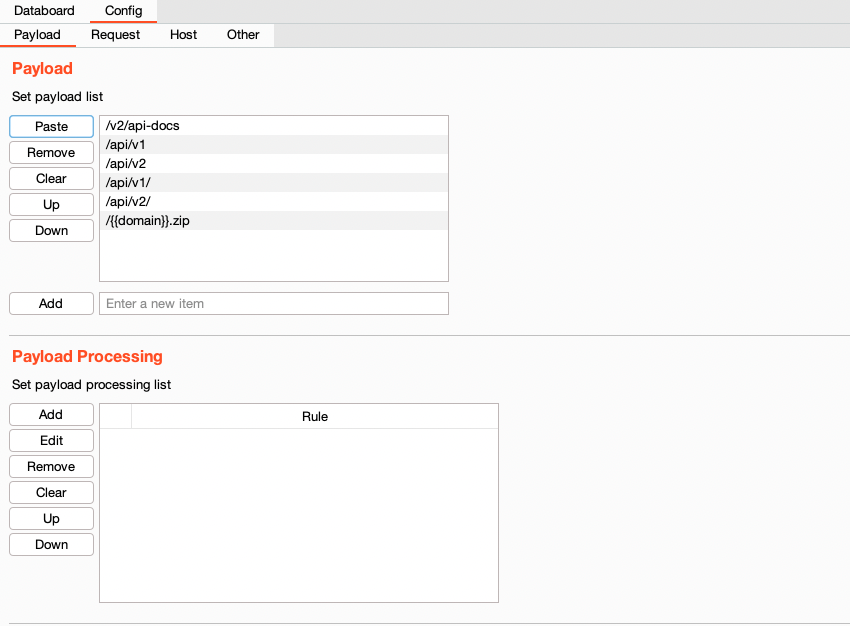
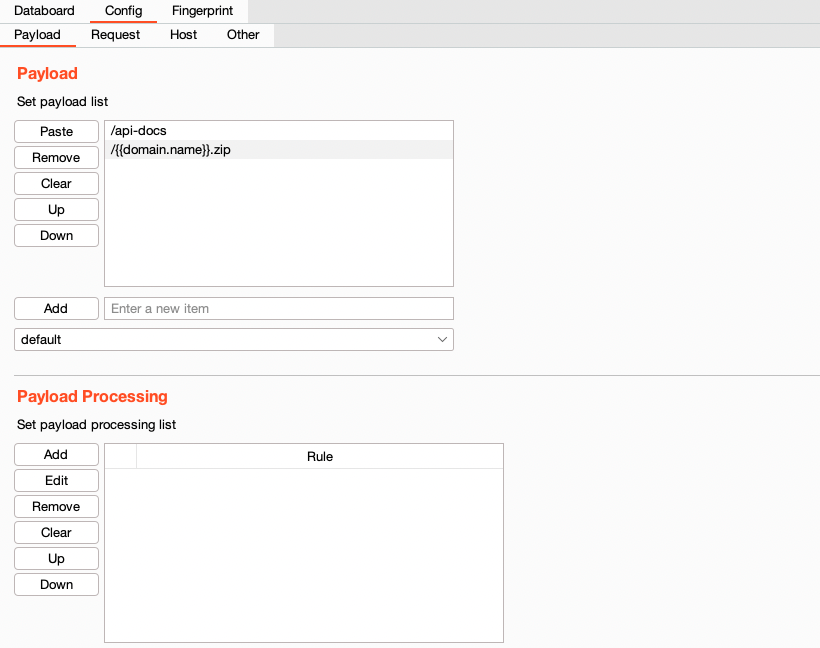
针对1.0.0版本更新README说明文档及截图

diff --git a/README.md b/README.md
@@ -1,17 +1,39 @@
 # OneScan
 
-OneScan是一个递归目录扫描的BurpSuite插件。
+OneScan是递归目录扫描的BurpSuite插件。
 
 ## 插件介绍
 
 OneScan插件的思路由One哥提供，我负责将One哥的思路进行编码变现。插件起初是为了发现站点的 `Swagger-API` 文档页面，例如有些站点将 `Swagger-API`
-文档存放在当前接口同路径下（或者更深层次目录）。OneScan插件的出现可以快速发现这类页面和接口，只需要配置对应的字典即可。
+文档存放在当前API接口同路由下（或者更深层次目录），使用OneScan插件可以快速发现这类页面和接口
 
 > 参与开发人员：
 >
 > - 主要开发: vaycore
 > - 后续更新功能: Rural.Dog
 > - 产品经理: 0ne_1
+
+### 简单示例
+
+例如配置Payload字典如下：
+
+```text
+/api-docs
+/{{domain.name}}.zip
+```
+
+目标站点访问：`http://www.xxxxxx.com/a/b/c/xxx.min.js` ，插件会自动扫描如下的路径：
+
+```text
+http://www.xxxxxx.com/api-docs
+http://www.xxxxxx.com/xxxxxx.zip
+http://www.xxxxxx.com/a/api-docs
+http://www.xxxxxx.com/a/xxxxxx.zip
+http://www.xxxxxx.com/a/b/api-docs
+http://www.xxxxxx.com/a/b/xxxxxx.zip
+http://www.xxxxxx.com/a/b/c/api-docs
+http://www.xxxxxx.com/a/b/c/xxxxxx.zip
+```
 
 ## 插件安装
 
@@ -35,15 +57,11 @@ windows：
 C:\Users\<用户名>\.config\OneScan\
 ```
 
-## 插件使用
+## 插件说明
 
-> 使用前需要先配置一下黑白名单列表（否则只允许 `127.0.0.1` 地址扫描）
+### Databoard数据看板
 
-![](imgs/config_host.png)
-
-### 主面板
-
-插件主面板如下
+插件数据看板说明如下
 
 ![](imgs/main_panel.png)
 
@@ -53,7 +71,7 @@ C:\Users\<用户名>\.config\OneScan\
 - `Disable DirScan` 开关递归扫描，启用时，不对目标进行递归扫描
 - `Filter` 设置数据过滤规则
 
-### 过滤规则配置
+#### 过滤规则配置
 
 点击主面板的`Filter`按钮，打开设置过滤规则对话框（插件`0.5.2`版本新增功能）
 
@@ -72,13 +90,11 @@ C:\Users\<用户名>\.config\OneScan\
 
 ![](imgs/send_to_onescan.png)
 
-> 注意：白名单同样对主动扫描生效
-
 ### 辅助面板
 
-提取请求和响应包中**JSON**格式的字段
+提取请求和响应包中**JSON**格式的字段，插件`1.0.0`版本新增`Fingerprint`指纹信息展示
 
-![](imgs/show_json_param.png)
+![](imgs/onescan_info.png)
 
 ### 动态变量
 
@@ -92,10 +108,13 @@ C:\Users\<用户名>\.config\OneScan\
 {{protocol}} - 原请求头中的协议（http、https）
 {{timestamp}} - Unix时间戳（单位：秒）
 {{random.ip}} - 随机IPv4值
+{{random.local-ip}} - 随机内网IPv4值
 {{random.ua}} - 随机UserAgent值，随机源可配置
 ```
 
-### Payload
+### Config配置
+
+#### Payload（字典、Payload处理）
 
 Payload配置界面如下
 
@@ -104,7 +123,7 @@ Payload配置界面如下
 - `Payload` 配置递归扫描的字典
 - `Payload Processing` 配置请求过程中对数据包的处理（例如：URL添加前缀、后缀，Body正则匹配和替换）
 
-### Request
+#### Request（请求相关配置）
 
 Request配置界面如下
 
@@ -117,7 +136,7 @@ Request配置界面如下
 - `Exclude header` 请求时排除请求头中对应的值
 - `UserAgent` 这里配置的是 `{{random.ua}}` 变量列表里的值
 
-### Host
+#### Host（主要是黑、白名单配置）
 
 Host配置界面如下
 
@@ -126,7 +145,7 @@ Host配置界面如下
 - `Host Whitelist` 配置白名单列表，如果该列表不为空，插件则只能请求该列表中的Host
 - `Host Blacklist` 配置黑名单列表，插件不对该列表配置的Host进行请求
 
-### Other
+#### Other（其它配置）
 
 Other配置界面如下
 
@@ -134,11 +153,79 @@ Other配置界面如下
 
 - `Web name collect` Web目录名收集（例如：`http://xxx.com/wapi/xxx.html` 会将该 url 中的 `wapi` 写入到指定的文件中）
 - `Json field collect` Json字段收集（收集json格式响应包中的所有key值，保存到指定目录）
+- `Wordlist Directory` 插件`1.0.0`版本新增字典管理，此目录下包含所有字典文件的配置
 - `HaE` 配置与 [HaE](https://github.com/gh0stkey/HaE) 插件联动，实现主面板数据高亮
+- `Clear Temp` 清除指纹识别缓存（用于加快指纹识别的速度）
+
+### Fingerprint指纹
+
+插件`1.0.0`版本新增`Fingerprint`指纹模块，指纹管理界面如下
+
+![](imgs/fingerprint_panel.png)
+
+- `Reload` 重新加载配置文件中的指纹信息
+- `Search` 搜索指纹库中的指纹信息
+- `Test` 用于测试指纹规则
+
+指纹信息全程使用UI添加，不需要编写正则匹配规则（也可以使用正则匹配），UI界面如下：
+
+![](imgs/create_fingerprint_ui.png)
+
+#### 指纹信息说明
+
+- `Name` 指纹名称（产品名）
+- `Company` 产品公司（默认：Other）
+- `Lang` 编程语言
+- `SoftHard` 软硬件（0=其它；1=硬件；2=软件）
+- `Frame` 产品使用的开发框架
+- `ParentCategory` 父类别（默认：Other）
+- `Category` 类别（默认：Other）
+- `Rules` 指纹匹配规则
+
+#### 指纹规则说明
+
+包含六种数据源
+
+- `header` Header
+- `server` Header 中的 Server 值
+- `body` Body 数据
+- `title` Html 标题
+- `bodyMd5` Body 数据 MD5 值
+- `banner` 其它协议的 Banner 信息（HTTP协议无法匹配该值）
+
+共有十种匹配方法
+
+- `equals` 匹配相等
+- `notEquals` 匹配不相等
+- `iEquals` 匹配相等（忽略大小写）
+- `iNotEquals` 匹配不相等（忽略大小写）
+- `contains` 包含
+- `notContains` 不包含
+- `iContains` 包含（忽略大小写）
+- `iNotContains` 不包含（忽略大小写）
+- `regex` 正则匹配
+- `notRegex` 正则不匹配
 
 ## 插件演示
 
-浏览器访问某搜索网站，面板展示如下
+将如下数据包主动发送到OneScan：
+
+```text
+POST /mcp/pc/pcsearch HTTP/1.1
+Host: ug.baidu.com
+Content-Length: 56
+User-Agent: Mozilla/5.0 (Windows NT 10.0; Win64; x64) AppleWebKit/537.36 (KHTML, like Gecko) Chrome/108.0.0.0 Safari/537.36
+Content-Type: application/json
+Accept: */*
+Origin: https://www.baidu.com
+Accept-Encoding: gzip, deflate
+Accept-Language: zh-CN,zh;q=0.9
+Connection: close
+
+{"invoke_info":{"pos_1":[{}],"pos_2":[{}],"pos_3":[{}]}}
+```
+
+面板展示如下：
 
 ![](imgs/main_panel_test.png)
 
